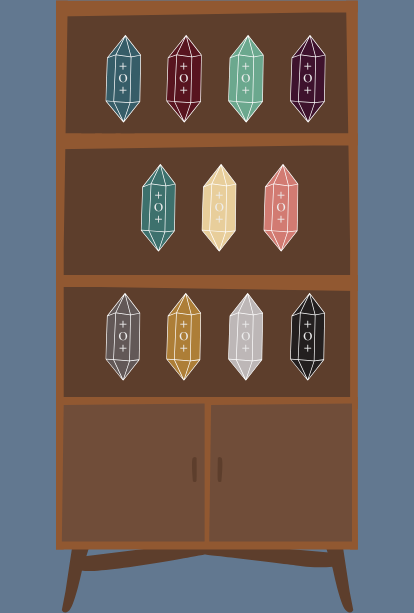
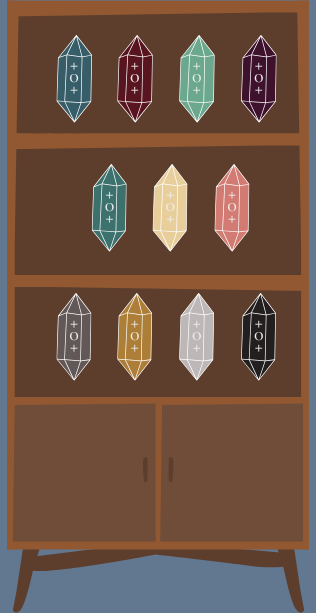
Update styling for shards and title size
- Adjust shard positions in App.scss for better layout
- Change editable title font size from 4rem to 2.5rem in TitleBar.tsx
- Replace Dresser.png with a new version

diff --git a/src/App.scss b/src/App.scss
@@ -51,48 +51,48 @@
   border-radius: $border-radius-medium;
 
   &.shard-0 {
-    top: 5%;
-    right: 65%;
+    top: 5.5%;
+    right: 69.5%;
   }
   &.shard-1 {
-    top: 5%;
-    right: 50%;
+    top: 5.5%;
+    right: 50.5%;
   }
   &.shard-2 {
-    top: 5%;
-    right: 35%;
+    top: 5.5%;
+    right: 30.5%;
   }
   &.shard-3 {
-    top: 5%;
-    right: 20%;
+    top: 5.5%;
+    right: 10.5%;
   }
   &.shard-4 {
     top: 27%;
-    right: 56.5%;
+    right: 58.5%;
   }
   &.shard-5 {
     top: 27%;
-    right: 41.5%;
+    right: 39%;
   }
   &.shard-6 {
     top: 27%;
-    right: 26.5%;
+    right: 19.5%;
   }
   &.shard-7 {
-  top: 48.5%;
-  right: 65%;
+  top: 47.5%;
+  right: 70%;
   }
   &.shard-8 {
-  top: 48.5%;
+  top: 47.5%;
   right: 50%;
   }
   &.shard-9 {
-  top: 48.5%;
-  right: 35%;
+  top: 47.5%;
+  right: 30%;
   }
   &.shard-10 {
-  top: 48.5%;
-  right: 20%;
+  top: 47.5%;
+  right: 11%;
   }
 }
 
@@ -148,7 +148,6 @@
 }
 
 .editable-title {
-  font-size: 2rem;
   margin-bottom: 1rem;
   cursor: pointer;
 }

diff --git a/src/Header/TitleBar.tsx b/src/Header/TitleBar.tsx
@@ -49,14 +49,14 @@ function TitleBar({ handleSave, handleItemLoad, itemName, setItemName }: TitleBa
         onChange={(e) => setItemName(e.target.value)}
         onBlur={() => setIsEditingTitle(false)}
         autoFocus
-        sx={{ fontSize: '4rem', color: 'white', textAlign: 'center' }}
+        sx={{ fontSize: '2.5rem', color: 'white', textAlign: 'center' }}
       />
     ) : (
       <Typography 
         className="editable-title" 
         onClick={() => setIsEditingTitle(true)}
         component={'h1'}
-        fontSize={'4rem'}
+        fontSize={'2.5rem'}
       >
         {itemName}
       </Typography>
